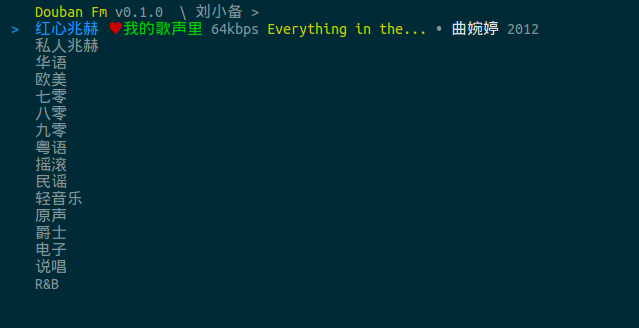
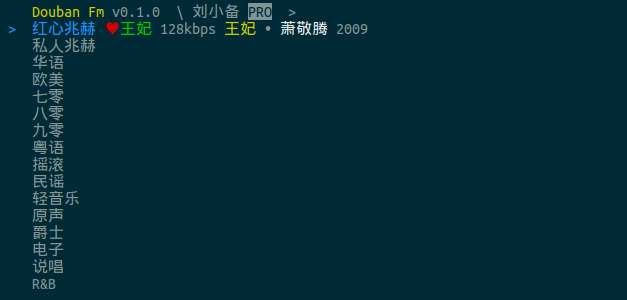
增加播放功能

Changed region(s): [[0.0, 0.0, 0.6667, 0.96], [0.6667, 0.06, 0.8485, 0.12]]

diff --git a/douban.py b/douban.py
@@ -45,6 +45,8 @@ class Win(cli.Cli):
             elif c == ' ':
                 '选择频道,播放歌曲'
                 if self.markline + self.topline != self.displayline:
+                    if douban.playingsong:
+                        subprocess.Popen('killall -9 mplayer', shell=True)
                     self.displaysong()
                     self.SUFFIX_SELECTED = '正在加载请稍后...'
                     self.display()
@@ -59,7 +61,7 @@ class Win(cli.Cli):
                         love = ''
                     self.SUFFIX_SELECTED = love + colored(song['title'], 'green') + ' ' + song['kbps'] + 'kbps ' + colored(song['albumtitle'], 'yellow') + ' • ' + colored(song['artist'], 'white') + ' ' + song['public_time']
                     self.display()
-                    # subprocess.Popen('mplayer ' + song['url'] + ' >/dev/null 2>&1', shell=True)
+                    subprocess.Popen('mplayer ' + song['url'] + ' >/dev/null 2>&1', shell=True)
             elif c == 'r':
                 '标记红心,取消标记'
                 if douban.playingsong:
@@ -88,8 +90,8 @@ class Win(cli.Cli):
                         love = ''
                     self.SUFFIX_SELECTED = love + colored(song['title'], 'green') + ' ' + song['kbps'] + 'kbps ' + colored(song['albumtitle'], 'yellow') + ' • ' + colored(song['artist'], 'white') + ' ' + song['public_time']
                     self.display()
-                    # subprocess.Popen('killall -9 mplayer', shell=True)
-                    # subprocess.Popen('mplayer' + song['url'] + '>dev/null 2>&1', shell=True)
+                    subprocess.Popen('killall -9 mplayer', shell=True)
+                    subprocess.Popen('mplayer ' + song['url'] + ' >/dev/null 2>&1', shell=True)
             elif c =='b':
                 '不再播放'
                 douban.bye()
@@ -103,6 +105,7 @@ class Win(cli.Cli):
                 self.SUFFIX_SELECTED = love + colored(song['title'], 'green') + ' ' + song['kbps'] + 'kbps ' + colored(song['albumtitle'], 'yellow') + ' • ' + colored(song['artist'], 'white') + ' ' + song['public_time']
                 self.display()
             elif c == 'q':
+                subprocess.Popen('killall -9 mplayer', shell=True)
                 exit()
 
 w = Win(lines)

diff --git a/douban_token.py b/douban_token.py
@@ -21,14 +21,16 @@ class Doubanfm(object):
         self.playingsong = {}
         self.login()
         self.get_channels()
-        # 查看是否是pro用户
         self.is_pro()
 
     def is_pro(self):
+        # 查看是否是pro用户
         self.get_playlist()
         self.get_song()
         if not int(self.playingsong['kbps']) == 64:
             self.pro = 1
+        # 清空列表
+        self.playingsong = {}
 
     def win_login(self):
         '登陆界面'

diff --git a/README.md b/README.md
@@ -1,14 +1,41 @@
 ##Douban FM v0.1.0
 
+目前只支持linux,其他平台暂时未做测试,但是只要满足python2.7理论上就可以运行
+
+这个版本是基于 node.js版本的[douban.fm](https://github.com/turingou/douban.fm)制作的,因为自己不熟悉node.js,所以做了个python版本,而且python版本需要安装的依赖更少,尚有部分功能还未添加.
+
+
 ![](img/1.png)
 
 
+###依赖
+
+需要mplayer播放器依赖,如未安装:
+
+    sudo apt-get install mplayer
+
 ###按键
 
-j 下
-k 上
-g 移到最顶
-G 移到最底
-n 下一首
-r 喜欢/取消喜欢
-b 不再播放
+支持vim按键
+
+* j 下
+* k 上
+* g 移到最顶
+* G 移到最底
+* n 下一首
+* r 喜欢/取消喜欢
+* b 不再播放
+* space 播放歌曲
+
+###已完成功能
+
+* 登陆token
+* PRO
+* cli设计
+* 播放,下一首,红心,不再播放
+
+###TODO
+
+* 进度条
+* 歌词
+* 连续操作会产生字符在终端输出的bug
